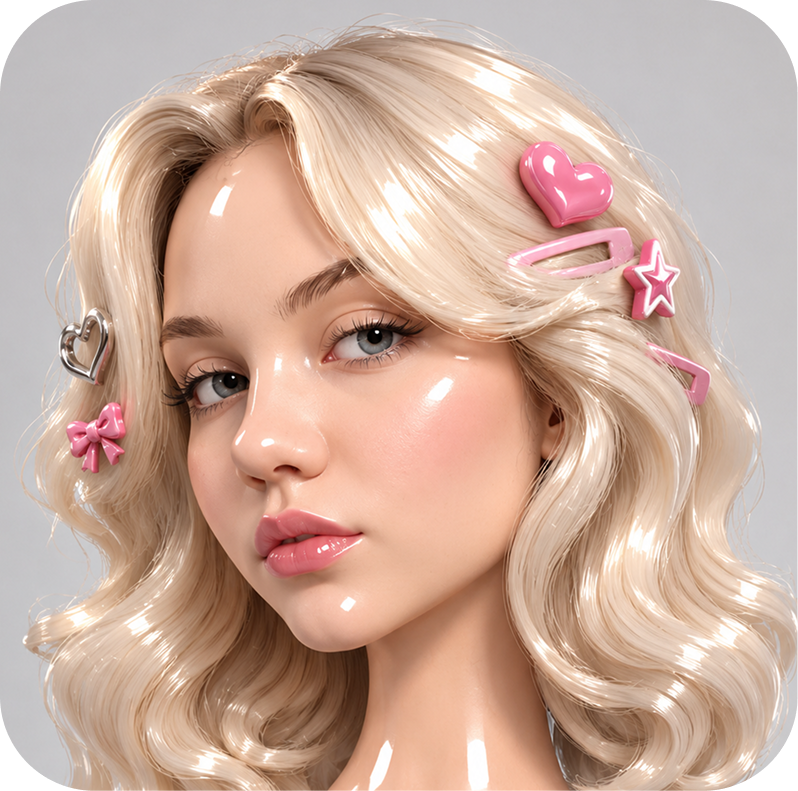
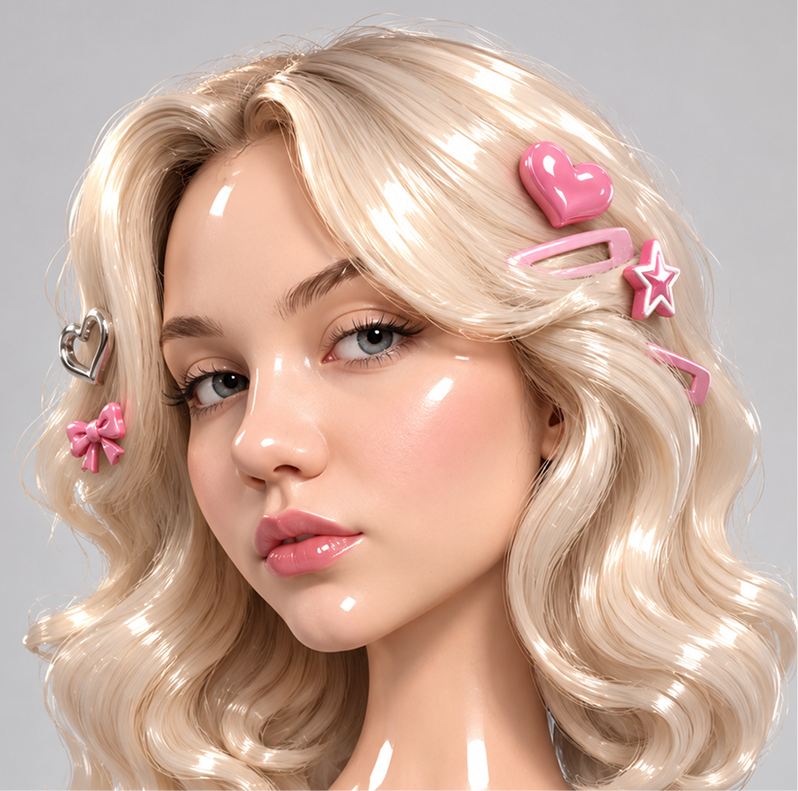
Исправление фото

diff --git a/home-redesign.css b/home-redesign.css
@@ -198,16 +198,16 @@ a {
   grid-area: portrait;
   align-self: start;
   width: 100%;
-  aspect-ratio: 1 / 1.04;
+  aspect-ratio: 1 / 1;
   border-radius: 1rem;
   overflow: hidden;
-  background: transparent;
+  background: #c4c2c2;
 }
 
 .hero-portrait img {
   width: 100%;
   height: 100%;
-  object-fit: cover;
+  object-fit: contain;
   object-position: center;
 }
 
@@ -413,7 +413,7 @@ a {
 
   .hero-portrait {
     margin-top: 2rem;
-    aspect-ratio: 1 / 1.18;
+    aspect-ratio: 1 / 1;
   }
 
   .hero-actions {
